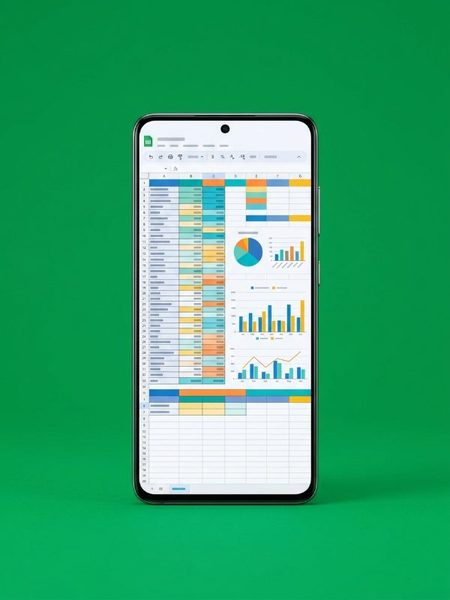
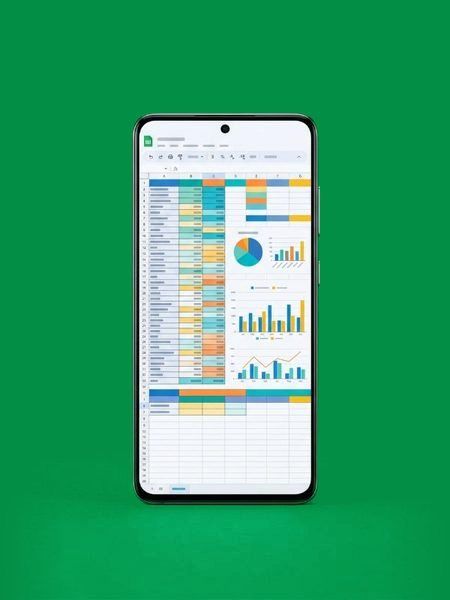
홈: 실사 사진 배경 톤을 카드 색과 단일 톤으로 보정(경계 끊김 제거)
Claude-Session: https://claude.ai/code/session_01CNy8ZXRNrjaZgeTT4TyaJt

Changed region(s): [[0.9333, 0.84, 1.0, 1.0], [0.0, 0.81, 0.0622, 1.0]]

diff --git a/build/patch_site.py b/build/patch_site.py
@@ -166,7 +166,7 @@ ul.hl-cards li.fp .go{z-index:2}
 ul.hl-cards .th{overflow:hidden}
 ul.hl-cards .ft:not(.fp) .fi{position:absolute;left:8px;right:8px;bottom:8px;top:84px;height:auto;margin:0;background-size:contain;background-position:center bottom}
 ul.hl-cards .ft:not(.fp) a{overflow:hidden}
-ul.hl-cards li.fp .fi{background-position:center bottom!important;background-size:contain!important;background-repeat:no-repeat;-webkit-mask-image:linear-gradient(90deg,transparent 0,#000 28%,#000 72%,transparent 100%),linear-gradient(transparent 0,#000 18%);-webkit-mask-composite:source-in;mask-image:linear-gradient(90deg,transparent 0,#000 28%,#000 72%,transparent 100%),linear-gradient(transparent 0,#000 18%);mask-composite:intersect}
+ul.hl-cards li.fp .fi{background-position:center bottom!important;background-size:contain!important;background-repeat:no-repeat}
 ul.hl-cards li.ph:not(.pw) a{background-size:auto 80%!important}
 ul.hl-cards img.pgb{position:static!important;width:26px!important;height:26px!important;margin:12px 14px 0;box-shadow:none!important;filter:none!important;border-radius:8px}
 ul.hl-cards .pg{box-shadow:none!important;filter:none!important}
